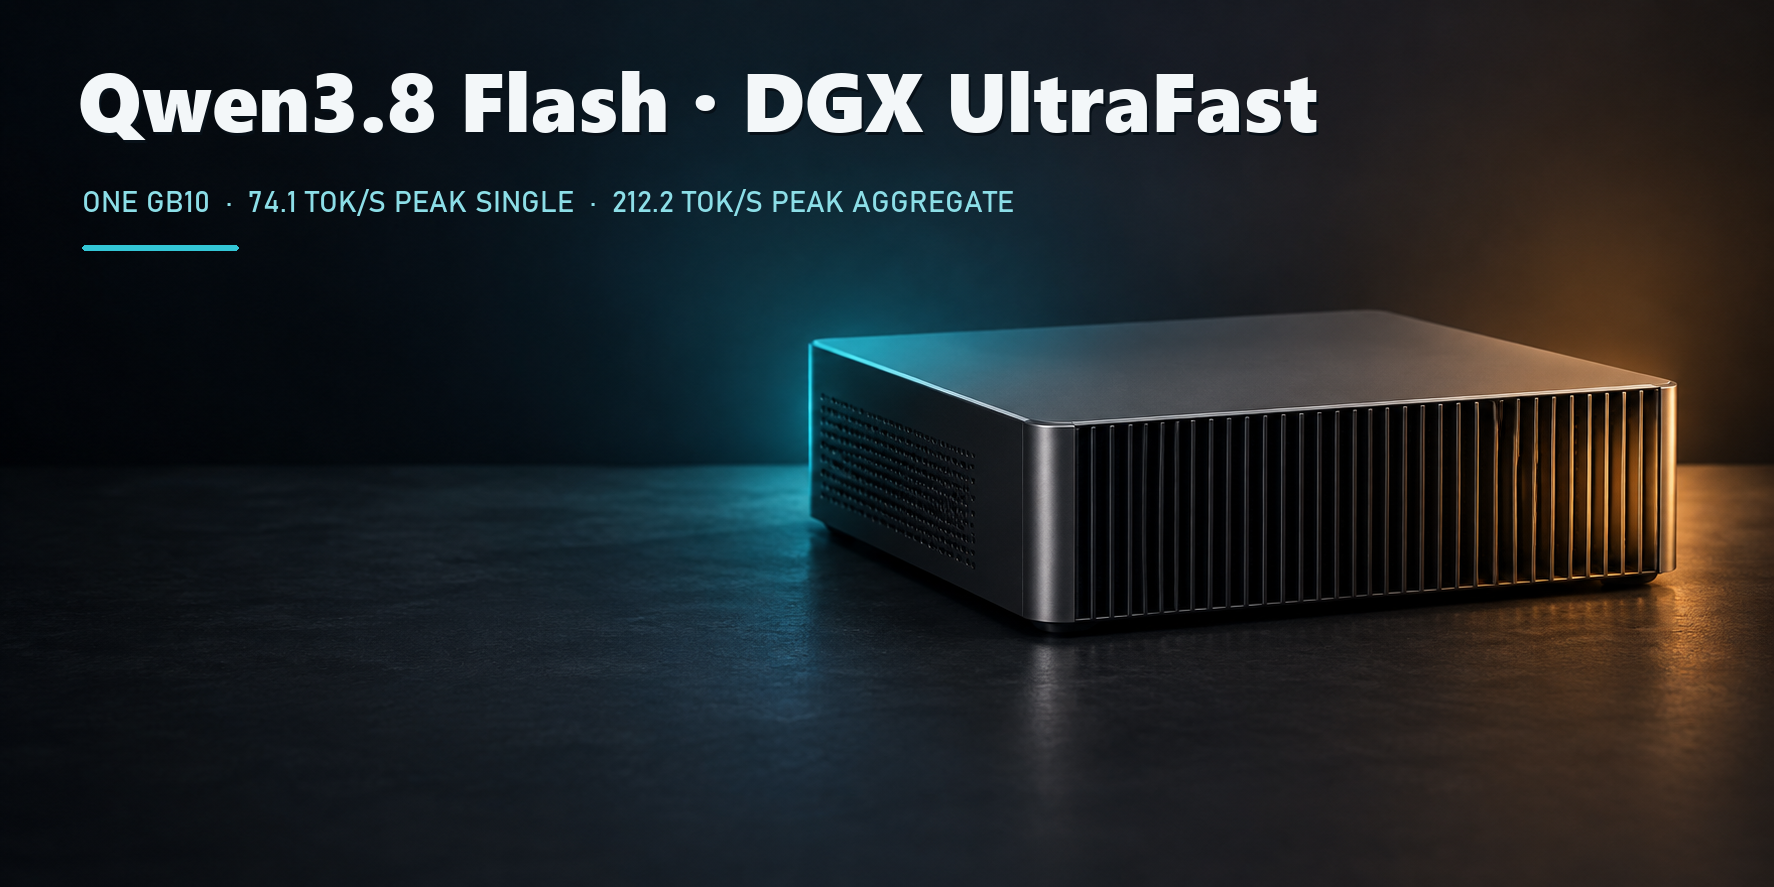
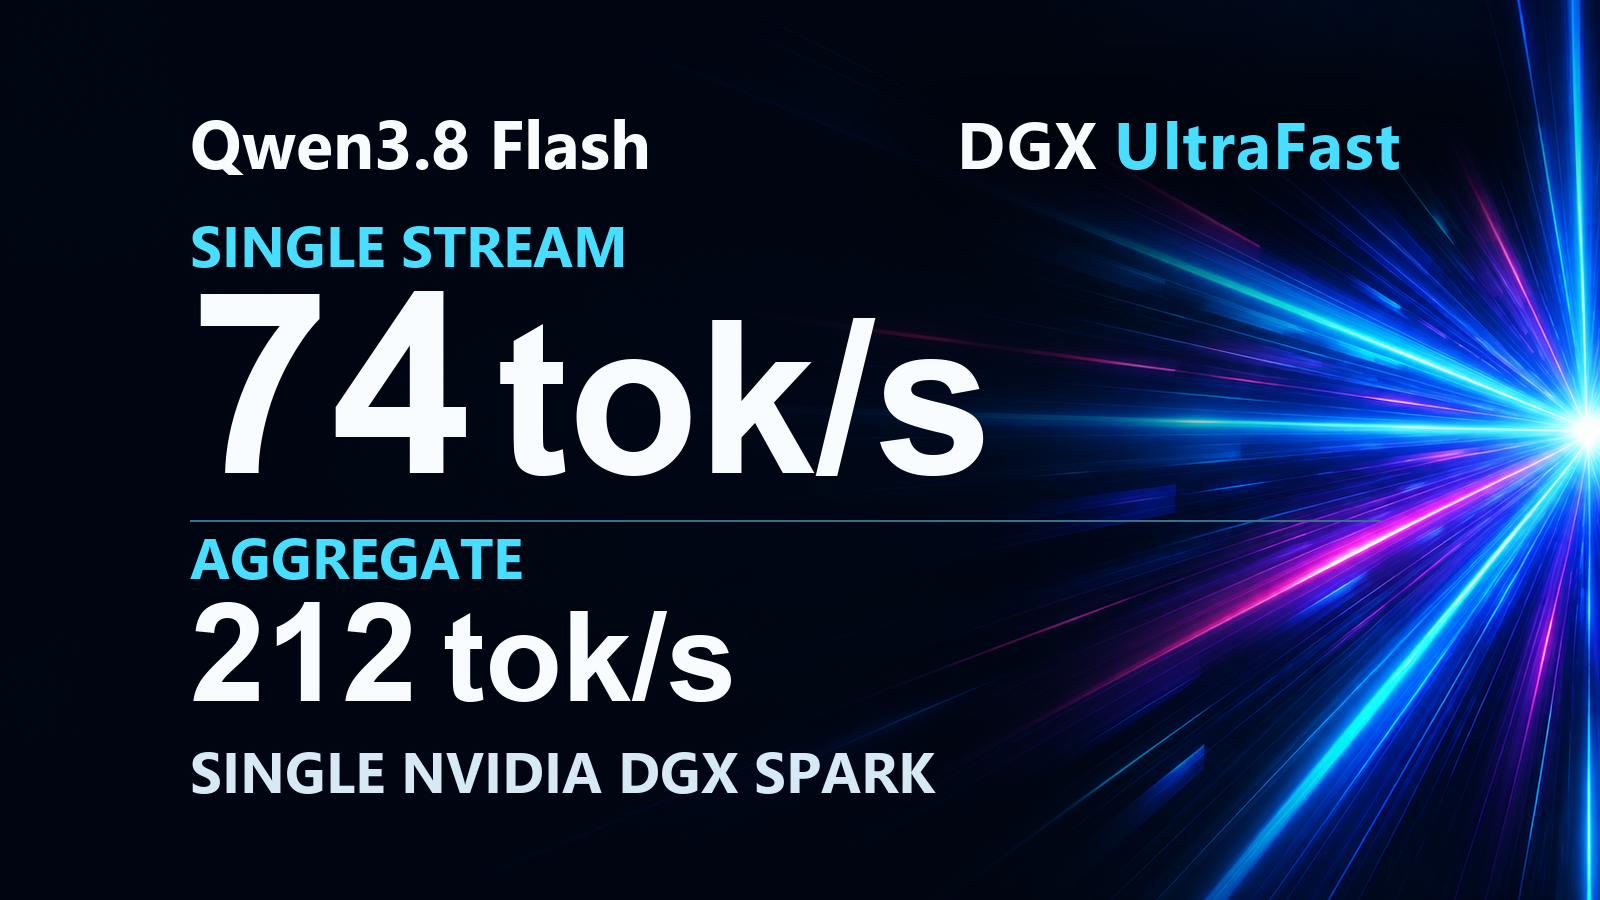
Refresh hero and social preview art

diff --git a/README.md b/README.md
@@ -1,5 +1,5 @@
 <!-- SPDX-License-Identifier: CC-BY-NC-4.0 -->
-<p align="center"><img src="docs/assets/hero.png" alt="Qwen3.8 Flash · DGX UltraFast on a GB10" width="100%"></p>
+<p align="center"><img src="docs/assets/hero.png" alt="Qwen3.8 Flash DGX UltraFast performance graphic: 74 tok/s single stream and 212 tok/s aggregate on one NVIDIA DGX Spark, with cyan and magenta speed rays" width="100%"></p>
 
 # Qwen3.8 Flash · DGX UltraFast
 
